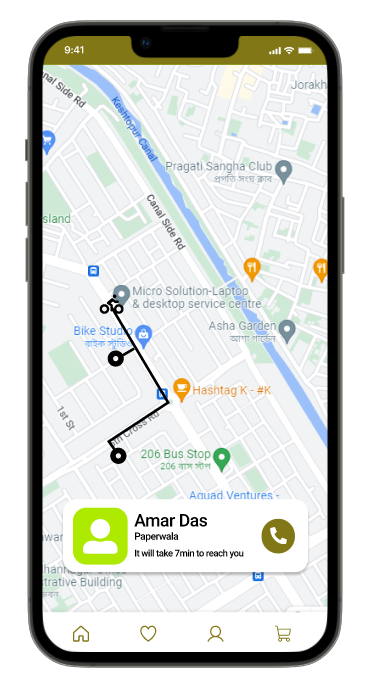
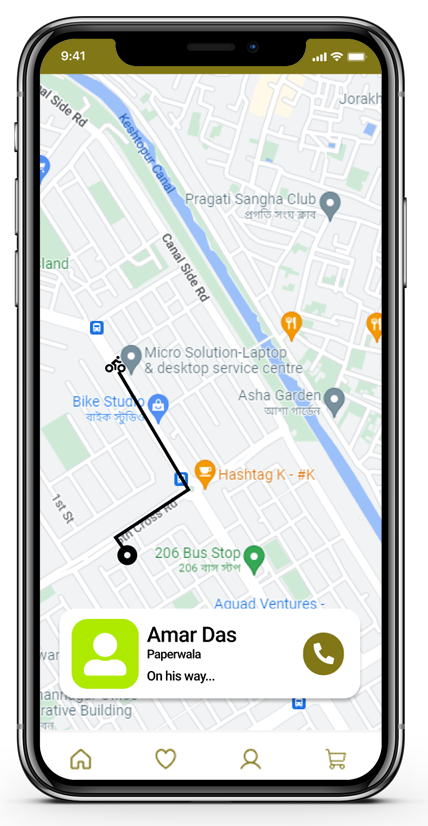
new changes

diff --git a/style.css b/style.css
@@ -139,7 +139,7 @@
 }
 
 .mobileBg4 {
-    background: url(img/Addtocart.png) center 0 / 100% no-repeat;
+    background: url(img/bookingVendor.png) center 0 / 100% no-repeat;
     height: 508px;
 }
 
